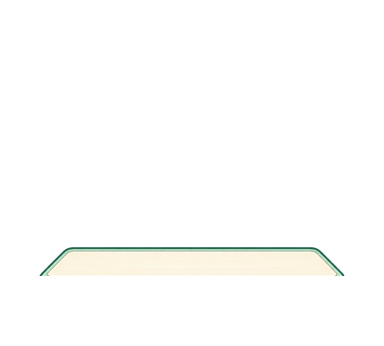
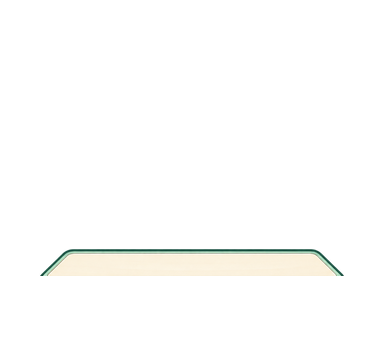
feat(shop): add retro and arcade desks and computers

Changed region(s): [[0.0938, 0.6936, 0.9062, 0.8092]]

diff --git a/tools/ContentSelfTest/Program.cs b/tools/ContentSelfTest/Program.cs
@@ -22,7 +22,7 @@ internal static class Program
         Directory.CreateDirectory(root);
         var cases = new (string Name, Action Test)[]
         {
-            ("stable-seven-entry-catalog", Catalog),
+            ("stable-twelve-entry-catalog", Catalog),
             ("three-free-defaults-forever-owned", Defaults),
             ("resource-links-match-content-types", Links),
             ("no-content-is-automatically-played", ManualActions),
@@ -99,7 +99,11 @@ internal static class Program
     }
     private static void Catalog()
     {
-        Equal(7, ContentCatalog.Definitions.Count); Equal(7, ContentCatalog.Definitions.Select(x => x.Id).Distinct(StringComparer.Ordinal).Count());
+        Equal(12, ContentCatalog.Definitions.Count); Equal(12, ContentCatalog.Definitions.Select(x => x.Id).Distinct(StringComparer.Ordinal).Count());
+        Equal(4, ContentCatalog.Definitions.Count(x => x.Type == ContentType.Desk));
+        Equal(4, ContentCatalog.Definitions.Count(x => x.Type == ContentType.Computer));
+        Equal(3, ContentCatalog.Definitions.Count(x => x.Type == ContentType.Outfit));
+        Equal(45, ContentCatalog.Get(ContentCatalog.HoodieOutfitId).Price);
         Equal(20, ContentCatalog.Get("desk.mint").Price); Equal(30, ContentCatalog.Get("computer.midnight").Price);
         Equal(15, ContentCatalog.Get("action.tea").Price); Equal(40, ContentCatalog.Get("outfit.office").Price);
         foreach (var entry in ContentCatalog.Definitions) Check(entry.Price >= 0 && entry.Price <= EconomyPolicy.MaximumCoins);
@@ -319,8 +323,8 @@ internal static class Program
         for (int i = 0; i < unknownLimit; i++) c.OwnedContentIds.Add("future." + i);
         c = ContentOwnershipService.Normalize(c);
         ContentOwnershipService.GrantEligibleRewards(c, Progress(10, 100));
-        ContentOwnershipService.GrantPurchase(c, "computer.midnight", Progress(), Available);
-        ContentOwnershipService.GrantPurchase(c, "outfit.office", Progress(), Available);
+        foreach (var item in ContentCatalog.Definitions.Where(x => !x.IsDefault && x.Reward is null))
+            ContentOwnershipService.GrantPurchase(c, item.Id, Progress(), Available);
         Equal(ContentOwnershipService.MaximumOwnedContents, c.OwnedContentIds.Count); ContentOwnershipService.ValidateForSave(c);
         c.OwnedContentIds.Add("future.overflow"); Throws<InvalidDataException>(() => ContentOwnershipService.Normalize(c)); Check(c.OwnedContentIds.Contains("future.overflow"));
     }

diff --git a/tools/prepare_office_outfit.py b/tools/prepare_office_outfit.py
@@ -171,7 +171,13 @@ def build(assets:Path,args):
 
 def props(assets:Path):
     target = assets/'SceneProps/Shop'; target.mkdir(parents=True,exist_ok=True)
-    for source,name,width,x,bottom in [('mint-desk-v1.png','desk-mint',306,39,345),('midnight-computer-v1.png','computer-midnight',102,141,275)]:
+    definitions = [('mint-desk-v2.png','desk-mint',306,39,345),
+                   ('walnut-desk-v1.png','desk-walnut',306,39,345),
+                   ('arcade-desk-v1.png','desk-arcade',306,39,345),
+                   ('midnight-computer-v1.png','computer-midnight',102,141,275),
+                   ('retro-computer-v1.png','computer-retro',102,141,275),
+                   ('arcade-computer-v1.png','computer-arcade',102,141,275)]
+    for source,name,width,x,bottom in definitions:
         rgba = Image.open(assets/'AnimationSources'/source).convert('RGBA')
         # Ignore nearly transparent export noise when finding a prop's physical size.
         # Fitting a whole canvas instead of the visible laptop made it only ~30 px wide.
@@ -179,13 +185,20 @@ def props(assets:Path):
         ys,xs = np.where(alpha >= 32)
         if not len(xs): raise ValueError(f'{source}: no visible prop')
         crop = rgba.crop((int(xs.min()),int(ys.min()),int(xs.max())+1,int(ys.max())+1))
-        image = place_prop(crop,width,x,bottom)
+        if name.startswith('desk-'):
+            # All table surfaces and feet share the authored classic desk bounds.
+            # Small source aspect variations must not lift the laptop off its table.
+            art = pipeline.add_rgb_edge_bleed(crop, iterations=12).resize((306,96),Image.Resampling.LANCZOS)
+            image = Image.new('RGBA',pipeline.CANVAS_SIZE)
+            image.alpha_composite(art,(39,249))
+        else:
+            image = place_prop(crop,width,x,bottom)
         image.save(target/f'{name}.png',optimize=True)
-        if name=='desk-mint':
+        if name.startswith('desk-'):
             back,front=np.array(image),np.array(image)
             back[276:,:,3]=0; front[:276,:,3]=0
-            Image.fromarray(back).save(target/'desk-mint-back.png',optimize=True)
-            Image.fromarray(front).save(target/'desk-mint-front.png',optimize=True)
+            Image.fromarray(back).save(target/f'{name}-back.png',optimize=True)
+            Image.fromarray(front).save(target/f'{name}-front.png',optimize=True)
 
 def audit(assets:Path):
     """Read every output and audit scene seams without modifying artwork."""

diff --git a/DuckDeskPet.Core/ContentCatalog.cs b/DuckDeskPet.Core/ContentCatalog.cs
@@ -39,6 +39,11 @@ public static class ContentCatalog
     public const string MidnightComputerId = "computer.midnight";
     public const string TeaActionId = "action.tea";
     public const string OfficeOutfitId = "outfit.office";
+    public const string WalnutDeskId = "desk.walnut";
+    public const string ArcadeDeskId = "desk.arcade";
+    public const string RetroComputerId = "computer.retro";
+    public const string ArcadeComputerId = "computer.arcade";
+    public const string HoodieOutfitId = "outfit.hoodie";
 
     public static IReadOnlyList<ContentDefinition> Definitions { get; } = Array.AsReadOnly(new[]
     {
@@ -56,6 +61,16 @@ public static class ContentCatalog
             Reward: new("level-2", "升到 2 级免费解锁"), AnimationId: "tea"),
         new ContentDefinition(OfficeOutfitId, ContentType.Outfit, "认真上班装", "穿得很专业，心里想下班。", 40,
             OutfitId: OfficeOutfitId),
+        new ContentDefinition(WalnutDeskId, ContentType.Desk, "暖木复古桌", "桌子很沉稳，内心很想溜。", 25,
+            ScenePropId: WalnutDeskId),
+        new ContentDefinition(ArcadeDeskId, ContentType.Desk, "闪电电竞桌", "工位像开黑，日报照样追。", 35,
+            ScenePropId: ArcadeDeskId),
+        new ContentDefinition(RetroComputerId, ContentType.Computer, "奶油复古电脑", "外壳很复古，下班很准时。", 25,
+            ScenePropId: RetroComputerId),
+        new ContentDefinition(ArcadeComputerId, ContentType.Computer, "闪电小电脑", "看着性能强，只想点关机。", 35,
+            ScenePropId: ArcadeComputerId),
+        new ContentDefinition(HoodieOutfitId, ContentType.Outfit, "摸鱼卫衣", "帽子放背后，小鱼放心头。", 45,
+            OutfitId: HoodieOutfitId),
     });
 
     private static readonly IReadOnlyDictionary<string, ContentDefinition> ById =

diff --git a/DuckDeskPet/Assets/AnimationSources/shop-expansion-v2-prompts.md b/DuckDeskPet/Assets/AnimationSources/shop-expansion-v2-prompts.md
@@ -1,0 +1,38 @@
+# Shop expansion v2 prompts
+
+## walnut-desk-v1
+
+Reference: mint-desk-v2.png. Output: walnut-desk-v1.png.
+
+Use case: stylized-concept. Asset type: transparent 2D desktop pet desk sprite. Image 1 is a geometry/style reference ONLY. Design a warm walnut retro office desk with rounded amber wooden tabletop, broad solid front modesty panel almost down to the bottom of two chunky short legs, tiny central engraved acorn emblem, one small drawer line. Keep EXACTLY the reference desk outer proportions, frontal slightly top-down angle, horizontal width and physical height (width approx 3.1 times height), tabletop top edge, front lip and legs footprints. Only one empty desk; no character/computer/room. Solid panel hides character torso and background fire, no large holes. Strong simple cartoon outlines and soft warm flat shading, consistent with reference, crisp silhouette. Native transparent background, no detached shadow, no text, no watermark. Generous transparent canvas margins.
+
+
+## arcade-desk-v1
+
+Reference: mint-desk-v2.png. Output: arcade-desk-v1.png.
+
+Use case: stylized-concept. Asset type: transparent 2D desktop pet desk sprite. Image 1 is a geometry/style reference ONLY. Design a deep navy compact gaming desk, chunky rounded corners and two short block legs; slim cyan and lavender accent trims (no bloom). Broad solid navy front modesty panel almost reaches leg bottoms, with subtle angular bevels and a tiny central lightning-bolt emblem. Keep EXACT same reference outer width-to-height ratio approx 3.1, camera frontal slightly top-down, tabletop footprint/frontlip height and legs baseline. One empty desk, no computer/character/accessories. Strong clean cartoon outlines and soft matte shading; solid not translucent. Transparent background native alpha, no floor/shadow, no text/watermark. Generous transparent margins.
+
+
+## retro-computer-v1
+
+Reference: midnight-computer-v1.png. Output: retro-computer-v1.png.
+
+Use case: stylized-concept. Asset type: transparent 2D desktop-pet computer prop. Image 1 is reference for orientation/scale and cartoon outline style. Create one warm cream retro portable computer as seen from BACK, so the eagle behind it can face its screen and viewer sees rear of screen. Chunky rounded cream casing, narrow caramel seams, tiny amber acorn badge centered, subtle two side cooling slits near base, compact thin keyboard/base visible below. Exact reference framing and front-symmetrical rear-view slightly top down, similar width/height silhouette (~1.55:1); no visible display or keys front. Crisp softly shaded cartoon, modest clean materials, transparent background native alpha, no floor shadow, no accessories/cables/character/table, no words or watermark.
+
+
+## arcade-computer-v1
+
+Reference: midnight-computer-v1.png. Output: arcade-computer-v1.png.
+
+Use case: stylized-concept. Asset type: transparent 2D desktop-pet computer prop. Image 1 is reference ONLY for orientation and cartoon outline style. Create one deep navy gaming laptop viewed from its BACK: eagle sits behind facing screen, viewer sees rear of screen. Rounded angular lid with twin short cyan diagonal decorative accents and a central small lavender lightning bolt emblem, thicker lower vent strip, thin keyboard/base visible underneath. Distinct structural design from reference, same compact overall aspect ratio approx1.55:1 and frontal symmetrical rear view slightly top-down. Crisp dark outlines, softly shaded illustration; no bloom, no light spilling outside silhouette. Native transparent background, no desk/character/room/cables, no visible screen front, no words or real brand logo, no watermark.
+
+
+Generated with the built-in ImageGen tool. Original sources retained; alpha extraction, sizing, layer splitting and interpolation are reproducible offline, not hand-drawn code replacements.
+
+## Mint desk v2
+
+Reference: mint-desk-v1.png. Output: mint-desk-v2.png.
+
+Use case: precise-object-edit. Asset type: transparent PNG prop for a 2D desktop pet.
+Image 1 is the edit target, existing mint desk. Keep its exact tabletop outline, viewpoint, width, legs and small golden leaf. Add a solid mint-colored front modesty panel between the legs: extends straight from beneath the tabletop edge almost down to the feet of the legs, leaving only a very narrow gap below (about 5 percent of total desk height). The panel is solid, no holes, enough to hide the character belly and background flame behind the desk. Give panel gentle recessed border detail consistent with desk, not a new big logo. Keep same clean thick-outline softly shaded cartoon style, same canvas, same position and perspective. Completely transparent background with clean native alpha, no glow, no floor/shadow, no other objects or text. Do not move or scale tabletop.

diff --git a/docs/IMPLEMENTATION-v1.9.md b/docs/IMPLEMENTATION-v1.9.md
@@ -105,3 +105,18 @@
 - 严格构建审计与运行时缺可选图降级分开：缺可选物品只禁用该款，默认必需资源缺失仍明确报错。
 - ExpansionIntegrationSelfTest 14 / 14，含 303 张饥饿帧、独立预览窗口、深浅背景、缩放、完整收场和资源释放；SceneCatalog 24 / 24、旧 WorkSceneV2 4 项回归通过。
 - 独立小剧场不读写照料、余额或装备，支持自然收场、暂停/继续、重播，隐藏停止渲染。
+
+### 窗口接线与第一轮全应用验收
+
+- 商店、荣誉奖励、情绪场景、真实猜拳演出均接入同一个桌宠；本次启动已赚金额与消费后的余额分开显示。
+- 完整办公装 19 段 / 2299 帧已生成，通过全资源审计；1150 张新默认动作帧、源图、关键帧、提示词和制作工具均已保留。
+- 第一轮真实 EXE 隔离联调 8 / 8 通过（60.61 秒），覆盖购买去重、预览无副作用、任务正文不落盘、连续摸头、饥饿先退场再喂食一次、收工后换设备、猜拳奖励冷却与办公服整套切换。
+- 用户追加桌子入场穿身优化、更多设备/服装：正在补语义遮挡和第二轮 9 项全应用验收；第一轮结果不替代新增资源验收。
+
+### 更多商店外观（追加项）
+
+- 新增暖木复古桌 25、闪电电竞桌 35、奶油复古电脑 25、闪电小电脑 35 鹰币；摸鱼卫衣 45 鹰币，完整资源通过后才能上架。
+- 当前目录总计 12 项：4 桌、4 电脑、3 整套形象、1 可手动播放动作；价格和权益继续走统一原子事务。
+- 薄荷桌加入实体前围板，不再暴露火焰平直底边；新桌统一 306×96 可见边界，电脑保持 102px 宽、底部 y=275。
+- 新增原图和完整提示词位于 `Assets/AnimationSources/shop-expansion-v2-prompts.md`；新变体为真实生成道具，不用代码画简化替身。
+- ContentSelfTest 54 / 54；容量用例改为遍历全部可购商品，避免随着新增内容漏测满收藏容量。
